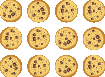
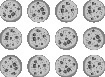
Re-fetch the ten earlier drawings as real PNGs and put them on the greys
Every fetched asset is now a real PNG and every fetched figure is on the dialect's greys, so
the fetch tier is uniform and the rule section 2 of docs/figure-reclaim.md now states holds
for the whole set rather than for the batch that happened to land after it.

Sixteen of the nineteen fetched assets were not PNGs. They were byte-identical to OpenStax's
raw archive resource: a CMYK JPEG with an Adobe APP14 marker, named `.png`. The image CDN
serves that original while its `f=png` transform is cold and answers `content-type:
image/jpeg`, and the guard tested the header's prefix, `image/`, which `image/jpeg` satisfies,
so the lie was stored and the first batch committed it. The guard now tests the PNG signature
and the download retries six times. All nineteen re-downloaded through `f=png` as lossless
palette PNGs: 1896 KB of CMYK became 387 KB of PNG, and the sixteen that were JPEGs went
1819 KB to 311 KB.

The conversion is the one recorded in docs/figure-reclaim.md section 7: grey, the tone
stretched with -auto-level, then a lookup onto #333333, #636363, #BABABA, #E6E6E6 and white.
The stretch matters here as much as it did for the last batch, because the micrograph at 1.11
bottoms out at 0.48 and the cell-counting sets at 0.27.

One hash does not transform at all: Figure 1.2's number line still answers image/jpeg after
six retries, because the CDN 302s to its image API and that 302s again to the archive
[…]

diff --git a/docs/figure-reclaim.md b/docs/figure-reclaim.md
@@ -1209,6 +1209,27 @@ grey card that nothing else on the page shares.
 The ten drawings that landed before this batch are still in OpenStax's color, and the commit that
 follows converts them; that is also where the format the CDN actually serves is recorded.
 
+**The ten drawings fetched before this batch are now real PNGs on the same greys.** They were fetched
+as `.png` and sixteen of the nineteen were not PNGs at all: byte-identical to OpenStax's raw archive
+resource, which is a CMYK JPEG with an Adobe APP14 marker, named `.png`. The image CDN serves that
+original while its `f=png` transform is cold and answers `content-type: image/jpeg`, and the guard in
+the fetch script tested the header's prefix, `image/`, which `image/jpeg` satisfies — so the lie was
+stored. The guard now tests the PNG signature, the download retries six times, and it raises rather
+than storing a fallback. All nineteen re-downloaded through `f=png` as lossless palette PNGs: 1896 KB
+of CMYK became 387 KB of PNG, and the sixteen that were JPEGs went 1819 KB to 311 KB.
+
+**One hash does not transform at all**, which is why the guard raises instead of falling back
+silently: Figure 1.2's number line, `5ac935f7de7aea3f4f9f847d30f647fca6a89942`, still answered
+`image/jpeg` after six retries, because the CDN 302s to its image API and that 302s again to the
+archive resource. It is not in the fetched set yet, so nothing here depends on it, and a later batch
+that meets it needs a deliberate local CMYK-to-sRGB conversion with a note saying so.
+
+**A review montage is not evidence about a CMYK file.** ImageMagick's `montage` renders an Adobe CMYK
+JPEG as black with red rules while a plain `magick in.png out.png` converts it correctly, and it
+renders 16-bit grayscale PNGs as blank white. Montages are therefore built from 8-bit sRGB copies,
+and Chromium — which drew the CMYK originals correctly, and is why the first batch looked right in
+the app the whole time — stays the authority on what a figure looks like.
+
 ## 8. Order of work
 
 The list is three tiers now rather than four: the `unidentified` tier used to lead here as its own
